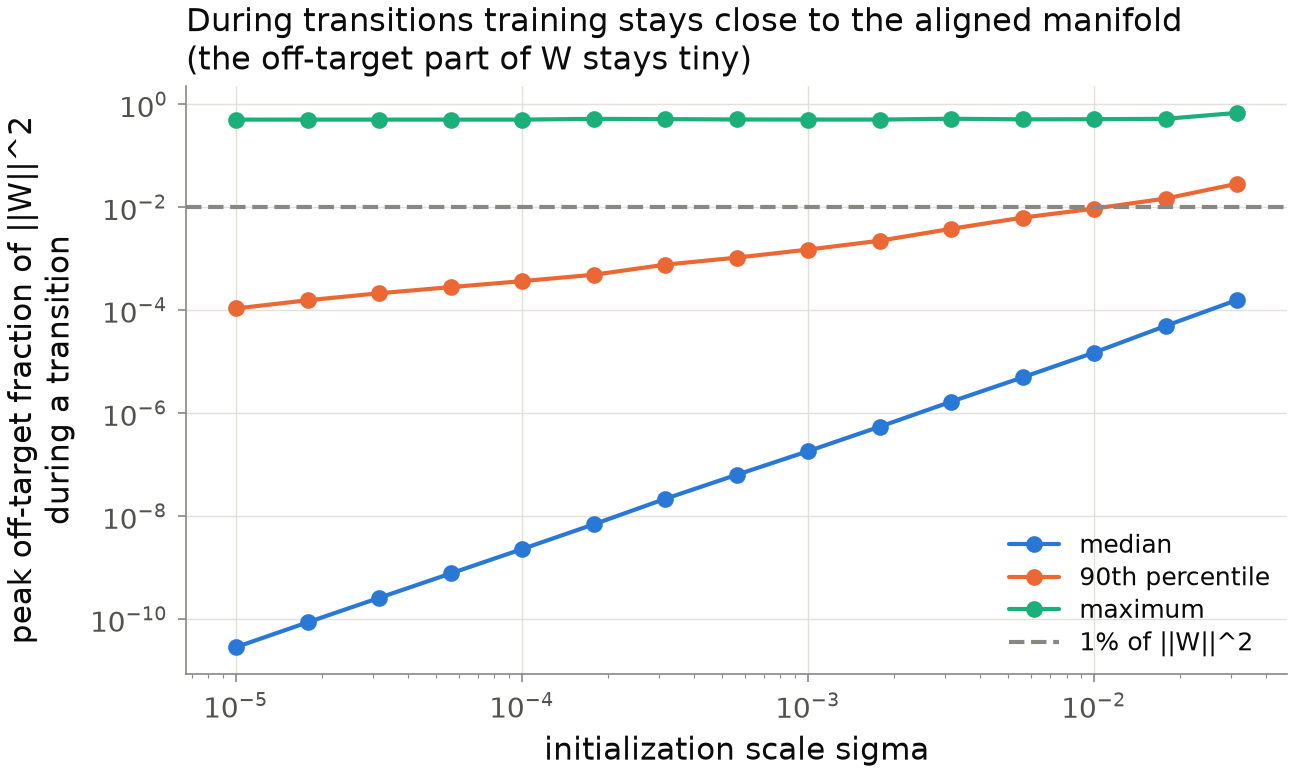
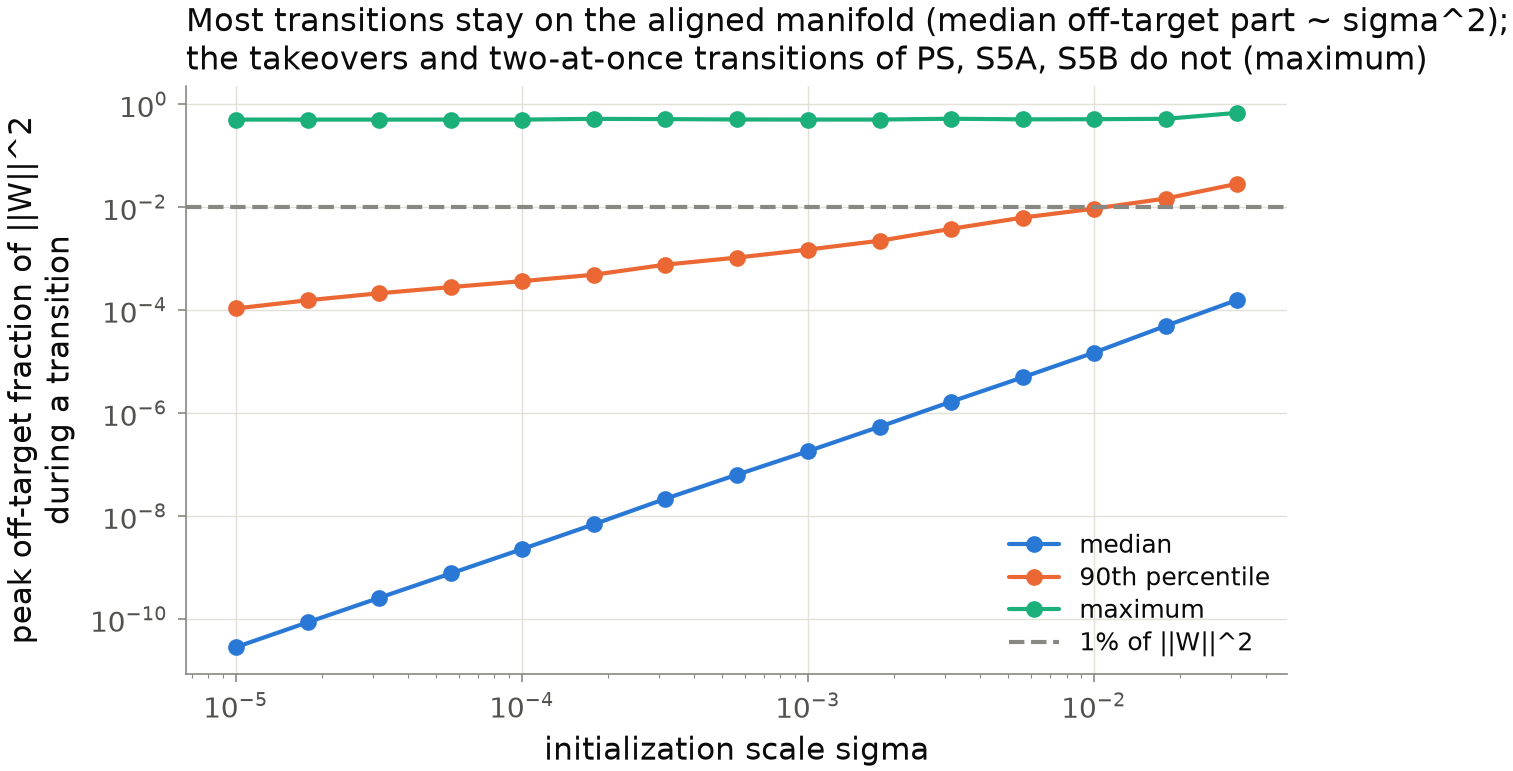
route-smallinit: final report (Status: done), deviation 7 (unfinished PS runs), numbers checked against headline.md

diff --git a/experiments/route_smallinit/figures.py b/experiments/route_smallinit/figures.py
@@ -197,7 +197,7 @@ def fig_offtarget(ev, out):
     ax.set_yscale("log")
     ax.set_xlabel("initialization scale sigma")
     ax.set_ylabel("peak off-target fraction of ||W||^2\nduring a transition")
-    ax.set_title("During transitions training stays close to the aligned manifold\n(the off-target part of W stays tiny)")
+    ax.set_title("Most transitions stay on the aligned manifold (median off-target part ~ sigma^2);\nthe takeovers and two-at-once transitions of PS, S5A, S5B do not (maximum)")
     ax.legend(fontsize=9)
     savefig(fig, out / "fig_offtarget")
     plt.close(fig)

diff --git a/agent-runs/route-smallinit/REPORT.md b/agent-runs/route-smallinit/REPORT.md
@@ -1,6 +1,6 @@
 # route-smallinit: route theory vs gradient-flow training from small random init (star targets)
 
-Status: working - Branch: agent/route-smallinit - Updated: 2026-10-13 20:50 UTC
+Status: done - Branch: agent/route-smallinit - Updated: 2026-10-13 21:30 UTC
 
 **Bugs in `ttn/routes.py`: none found.** Two usage notes (not bugs): `RouteTarget.greedy_next` breaks
 depth ties by the weight alone, not by s_r A_r(J) as in App. C. My greedy rule uses s_r A_r(J) (A_r at the
@@ -60,9 +60,9 @@ at sigma <= 1e-3 (9 grid points) unless stated. Every number: `experiments/route
 | (b) next pattern = greedy? | **yes without ties; ties: no** | no tie: 6882/6882 transitions; where greedy and pairwise rules name different patterns (747, the splices of B8, H4, S5A): greedy 100%, pairwise 0%; weight order wrong wherever it differs (0/3668); ties: heavier wins 82% overall (1909 tied transitions) (D4 62-64%, S5A 92%, S7 90%, S5B 67%, DB4/TIE 100%), the winner is fixed by the seed (same at every sigma in 99.5%) | `events.csv`, `fig_rules`, `fig_rules_vs_sigma` |
 | (c) duration ~ sigma^-(c-2)? | **yes on clean transitions** | per-seed exponents (sigma 1e-5..1e-3), clean transitions: c=3: 1.000 [1.000, 1.000] (399 fits), c=4: 2.000 [2.000, 2.000] (227); 98% of 648 fits with c >= 3 within 0.3 of c-2; all 125 splice fits at c-2, none at pairwise-2; c=2: log law, slope = 1/(s_r A_r(J)) within 1% in 6 of 7 cells; first escape: K-2 in 338/338 fits. Registered per-cell decisions: 42 SUPPORTED, 3 NOT SUPPORTED, 1 INCONCLUSIVE on clean events (37/7/3/3 incl. REFUTED on all events, the difference being forgetting runs) | `exponents.csv`, `cells.csv`, `fig_durations`, `fig_exponents` |
 | (c) failures | lighter-first plateaus; B4 slope; PS | S5A/S5B plateau with two light patterns learned: exponent 0.11 (log law) instead of 1, ending in a takeover; PS after 000000: exponent 2.000 (Theorem 3.2's order 4) instead of route depth 5's 3; PS 000000 after the pair: 3.0 or 3.9 depending on the seed; B4 c=2 slope 0.70 x prediction (also on M*) | `fig_shortcut_PS`, `fig_example_forgetting` |
-| (d) effective depth = c? | **yes** | medians 2.02 / 3.02 / 4.09 / 5.16 for c = 2/3/4/5 (90-100% within 0.3); first escape K within 0.03 | `fig_effective_depth` |
+| (d) effective depth = c? | **yes** | medians 2.02 / 3.02 / 4.09 / 5.16 for c = 2/3/4/5 (89-100% within 0.3); first escape K within 0.03 | `fig_effective_depth` |
 | (e) close to M*? | **yes, except during takeovers and mixed first escapes** | peak off-target fraction of ||W||^2 over a transition: median 8e-9, quartiles 2e-10, 4e-7, scales ~sigma^2; up to 0.5 in PS/S5A/S5B takeovers | `fig_offtarget` |
-| (f) Assumption C.1 | items 1-3 mostly hold; 4 fails in takeovers | (1) dormant entries ~ sigma at plateau entry in 36/39 cells (per-seed slope 1.00), not in B4 (0.70) and PS (0.88); spread across the route's nodes 2.3x; (2) active factors = A_r(J): ratio 1.000; (3-4) another pattern above 10% when the learned one passes 90%: 1.7% of events (PS 21%) | `c1.csv`, `plateaus.csv` |
+| (f) Assumption C.1 | items 1-3 mostly hold; 4 fails in takeovers | (1) dormant entries ~ sigma at plateau entry in 36/39 cells (per-seed slope 1.00), not in B4 (0.70) and PS (0.88); spread across the route's nodes 2.3x; (2) active factors = A_r(J): ratio 1.000; (3-4) another pattern above 10% when the learned one passes 90%: 1.8% of events (PS 21%) | `c1.csv`, `plateaus.csv` |
 | one-step-ahead (eq. 6.15) | **fails from P_r, works from the dormant-entry size** | from P_r(entry): observed/predicted 2.7 [0.9, 583], within [0.5, 2] 44%, winner right 82%; from the geometric mean of the dormant entries: 1.04 [0.93, 1.39], within [0.5, 2] 88%, winner right 98% (c <= 4; c = 5: 350) | `fig_onestep` |
 
 Failures of a prediction, each with its evidence:
@@ -102,8 +102,8 @@ Failures of a prediction, each with its evidence:
 Counts (6000 training runs): done 5710, **trapped 270** (D4 13 seeds and B4 5 seeds, x 15 sigma),
 **unfinished 20** (PS, sigma <= 10^-3.5, 1-hour cap: all had learned the pair and sat on the depth-5
 plateau before 000000 after > 1 million solver steps; 9 of them with the 000000 amplitude at ~1e-33,
-i.e. a dying route at the float64 floor; a rerun with a 3-hour cap and the BDF integrator is in
-progress, see Log), failed 0, **floor-flagged 11** (a duplicate with another contraction order or
+i.e. a dying route at the float64 floor; a rerun with the BDF integrator failed from the start and
+was abandoned; they are excluded from the fits), failed 0, **floor-flagged 11** (a duplicate with another contraction order or
 the library's arithmetic differs by > 1e-3 in a duration, max 2%, never in order or outcome; PS 5, S7
 5, B4 1, all at sigma <= 10^-4.75; excluded from fits). Behaviour tags: clean 3691 (62%), mixed first
 escape 1412, two at once later 813 (PS pair 497), forgetting 816, non-canonical plateau 556 (mostly at
@@ -118,16 +118,22 @@ plateau), `fig_rules`, `fig_rules_vs_sigma`, `fig_durations`, `fig_exponents`, `
 ## What was done
 
 1. Read the brief (1-3, 4.1), the paper (abstract, Secs. 1-3, 6-8, 10, App. C), `notes/saddle_dyn.md`
-   sec. 8, the drivers. Checked files and `uv run pytest tests/test_routes.py` (13 passed).
+   sec. 8, the drivers. Checked files and `uv run pytest tests/test_routes.py` (13 passed; still passing
+   at the end, `ttn/` untouched).
 2. Chose 10 targets with `ttn.routes` (`targets.py`, `results/predictions.csv`); the brief's ht4/binary8
    examples and decoupled mps5 have later route depths > 4 and were replaced by searched targets.
 3. Wrote the model (dense entrywise residual, exact Hessian), a step-driven LSODA driver with exact time
    bookkeeping, run reduction and sweep; pilots; pre-registration `notes/route_smallinit.md` Part I
-   (commit d44bc78, before the sweep).
-4. Sweep (two false starts, see Decisions), analysis (`analyze.py`), crossing histories and passes,
-   headline numbers, draft figures; first results pushed at 60f90a8.
-5. Investigated the failures (histories, passes, dormant-entry scaling, trapped routes); note Part II
-   and Part III (deviations).
+   (commit d44bc78, pushed before the sweep).
+4. Sweep: 6000 training runs, 150 reference runs on M*, 1300 floor-check duplicates (after two false
+   starts, Decisions), `uv run python experiments/route_smallinit/sweep.py configs/sweep.yaml`; first
+   results pushed at 60f90a8.
+5. Analysis (`analyze.py`: CSVs, crossing histories, passes, per-seed fits, per-cell decisions;
+   `headline.py`: every quoted number in `results/headline.md`; `figures.py`: 11 draft figures);
+   final analysis 7e7692f.
+6. Investigated the failures (histories, passes, dormant-entry scaling, trapped routes) and ran the
+   post-hoc no-cap diagnostic of the traps (`diag_trapped.py`, 35c2919). Note Part II (results with
+   status tags) and Part III (7 deviations).
 
 ## Decisions
 
@@ -150,12 +156,13 @@ plateau), `fig_rules`, `fig_rules_vs_sigma`, `fig_durations`, `fig_exponents`, `
 
 ## Files left on the machine
 
-- `/root/outputs/route-smallinit/runs/{dense,reorder,lib,ref}/<target>/*.json|npz` (~2.5 GB): raw
-  per-run records and trajectories; needed to rerun `analyze.py` (the CSVs in git are complete without
-  them).
-- `/root/outputs/route-smallinit/runs_try1_trapbug/`, `runs_try2_contaminated/`: set-aside outputs of the
-  two false starts (not used).
-- `/root/outputs/route-smallinit/logs/`: sweep logs.
+- `/root/outputs/route-smallinit/runs/{dense,reorder,lib,ref}/<target>/*.json|npz` (3.1 GB): raw
+  per-run records (events, plateau diagnostics) and trajectories (t, L, P, off-target mass, gradient
+  norm per solver step); needed to rerun `analyze.py`. The CSVs in git are complete without them.
+- `/root/outputs/route-smallinit/runs_unfinished_1h/` (278 MB): copies of the 20 unfinished PS records.
+- `/root/outputs/route-smallinit/runs_try1_trapbug/` (32 MB), `runs_try2_contaminated/` (187 MB):
+  set-aside outputs of the two false starts (not used; can be deleted).
+- `/root/outputs/route-smallinit/logs/` (1.4 MB): sweep logs.
 
 ## Caveats and next steps
 
@@ -179,3 +186,9 @@ plateau), `fig_rules`, `fig_rules_vs_sigma`, `fig_durations`, `fig_exponents`, `
 - 20:25 First results pushed (5970/6000 training runs; 30 slow PS runs at small sigma still running): CSVs, cells.csv decisions, results/headline.md, draft figures.
 - 20:35 Crossing histories reveal forgetting/takeovers (S5A, S5B, S7, PS) and the PS spectral shortcut (sigma^-2); passes table and clean-event basis added; note Part II drafted.
 - 20:50 Report drafted; waiting for the last PS runs (1-h cap) and their floor checks.
+- 21:13 20 PS runs ended at the 1-h cap (unfinished: >1M solver steps on the depth-5 plateau); rerun with BDF abandoned (VODE error-test failures); reported as unfinished (deviation 7).
+- 21:19 Sweep finished; final analysis; floor-check rule fixed so that a duplicate stopped by its own time cap gives no verdict (11 flagged of 1214 complete comparisons). Pushed 7e7692f.
+- 21:22 Post-hoc diagnostic: D4 and B4 without the bond cap never trap (0/160 vs 18/80 per sigma with the cap). Pushed 35c2919.
+- 21:30 Final numbers checked against results/headline.md; report complete.
+
+Status: done

diff --git a/experiments/route_smallinit/README.md b/experiments/route_smallinit/README.md
@@ -53,7 +53,7 @@ A single run: `run.run_full(cfg, sigma, seed)` then `run.reduce_run(...)`.
 | `figures.py` | draft figures `results/fig_*.png/pdf` |
 | `headline.py` | `results/headline.md`: every number quoted in the note and the report |
 | `diag_trapped.py` | post-hoc: D4 and B4 without the bond cap (spare channels on the end edges) -> `results/diag_trapped.csv` (columns as runs.csv plus `bond_cap`, `bonds`) |
-| `configs/sweep_ps_long.yaml` | rerun of the 20 PS runs unfinished after 1 h (3 h cap, BDF integrator) |
+| `configs/sweep_ps_long.yaml` | attempted rerun of the 20 PS runs unfinished after 1 h (3 h cap, BDF integrator; abandoned, see note Part III item 7) |
 
 ## CSV columns (all in `results/`)
 
@@ -157,13 +157,13 @@ Numbers at sigma <= 1e-3 unless stated; `results/headline.md` lists them all (ge
 | question | answer | evidence |
 |---|---|---|
 | (a) plateaus at the canonical partial targets? | yes: 98.7% within 1% of ||W*|| (median distance 8e-9) | `events.csv` `rel_dist_mg`, `canonical` |
-| (b) next pattern = greedy rule? | always when there is no tie in route depth (6867/6867); the pairwise rule is wrong in all 747 transitions where it differs (splices); ties go to the heavier pattern only 62-100% of the time, decided by the seed | `events.csv` `agree_*`, `fig_rules`, `fig_rules_vs_sigma` |
+| (b) next pattern = greedy rule? | always when there is no tie in route depth (6882/6882); the pairwise rule is wrong in all 747 transitions where it differs (splices); ties go to the heavier pattern only 62-100% of the time, decided by the seed | `events.csv` `agree_*`, `fig_rules`, `fig_rules_vs_sigma` |
 | (c) duration ~ sigma^-(c-2)? | yes on clean transitions: 98% of 648 per-seed fits (c >= 3) within 0.3, log law with the predicted slope for c = 2 in 6 of 7 cells; exceptions: lighter-first plateaus are strict saddles (log law, Theorem 3.2 / Remark 8.5), PS after 000000 follows Theorem 3.2's order 4 (sigma^-2, not the route depth's sigma^-3), B4 log slope 0.70 x prediction | `exponents.csv`, `cells.csv`, `fig_durations`, `fig_exponents`, `fig_shortcut_PS` |
 | (d) effective depth = c? | yes: medians 2.02, 3.02, 4.09, 5.16; first escape K | `events.csv` `eff_depth`, `fig_effective_depth` |
-| (e) close to the aligned manifold? | yes between and during clean transitions (peak off-target mass median 8e-9, ~sigma^2); not during takeovers and mixed first escapes (up to 0.5) | `peak_offtarget`, `fig_offtarget` |
+| (e) close to the aligned manifold? | yes during clean transitions (peak off-target mass median 9e-9, ~sigma^2); not during takeovers and mixed first escapes (up to 0.5) | `peak_offtarget`, `fig_offtarget` |
 | (f) Assumption C.1 | (1) dormant entries ~ sigma at entry in 36/39 cells (B4: sigma^0.70); (2) active factors = A_r(J) (ratio 1.000); (3-4) separated in 98% of events (PS 79%), but takeovers erase learned patterns | `c1.csv`, `plateaus.csv` |
 | one-step-ahead (eq. 6.15) | from P_r at entry: fails (ratio 2.7, IQR 0.9-579); from the dormant-entry size: works (1.04, IQR 0.93-1.39) for c <= 4 | `onestep_ratio`, `onestep_ratio_B`, `fig_onestep` |
-| runs doing something else | forgetting 807 runs (13%; S5A, S5B, S7, PS), two at once later 793 (PS pair), trapped 270 (D4 13 seeds, B4 5 seeds, at every sigma), mixed first escape 1391 | `runs.csv` `behaviour`, `history`, `fig_census`, `fig_example_forgetting` |
+| runs doing something else | forgetting 816 runs (14%; S5A, S5B, S7, PS), two at once later 813 (mostly the PS pair), trapped 270 (D4 13 seeds, B4 5 seeds, at every sigma; none without the bond cap, `diag_trapped.csv`), unfinished 20 (PS, 1-h cap), mixed first escape 1412, floor-flagged 11 | `runs.csv` `behaviour`, `history`, `fig_census`, `fig_example_forgetting` |
 
 Figures (`results/`): `fig_example_run` (one B8 run, plateau by plateau), `fig_rules`, `fig_rules_vs_sigma`,
 `fig_durations`, `fig_exponents`, `fig_shortcut_PS`, `fig_example_forgetting`, `fig_effective_depth`,

diff --git a/notes/route_smallinit.md b/notes/route_smallinit.md
@@ -347,7 +347,7 @@ trapped runs excluded. Three bases (`exponents.csv`): `event` (registered: every
 ## 5. (d) Effective depth
 
 `ttn.routes.effective_depth` on the learned pattern's amplitude, from the plateau entry to the event,
-sigma <= 1e-3: c = 2: 2.02 [2.02, 2.02], 90% within 0.3 (10% of events have too few points in the
+sigma <= 1e-3: c = 2: 2.02 [2.02, 2.02], 89% within 0.3 (10% of events have too few points in the
 window); c = 3: 3.02 [3.02, 3.04], 96%; c = 4: 4.09 [4.00, 4.15], 99.5%; c = 5: 5.16 [5.16, 5.16],
 100%; first escape (c = K = 3 ... 7): K to within 0.03 (median deviation -0.001). **SUPPORTED
 [empirical]** in every cell (>= 80% within 0.3). The few mismatches are relearned patterns after
@@ -358,7 +358,7 @@ finite window (the reference flow on M* gives the same values).
 ## 6. (e) Does training stay close to the aligned manifold?
 
 **Yes, except during the escapes that the theory does not cover [empirical].** Peak off-target fraction
-of ||W||^2 over a transition (k >= 1, sigma <= 1e-3): median 8e-9 (quartiles 2e-10, 4e-7); 93.8%
+of ||W||^2 over a transition (k >= 1, sigma <= 1e-3): median 9e-9 (quartiles 2e-10, 4e-7); 93.5%
 below 1e-2. It scales as ~sigma^2 (median 3e-11 at 1e-5, 1.6e-4 at 10^-1.5). The large values (up to
 0.5) come from PS (the pair escape), S5A/S5B/S7 takeovers (0.14-0.38) and the mixed first escapes.
 Alignment quality of `align` at the plateau minimum-gradient points: 1.000 (all quartiles). The
@@ -378,9 +378,9 @@ The lighter-first takeovers suggest that this happens (section 4) [conjecture].
    order but not balanced).
 2. **Active factors independent of sigma: holds [empirical]:** gamma_obs / A_r(J) = 1.000 (within 5%
    in 95% of rows).
-3.-4. **Separated events: holds except PS [empirical]:** at sigma <= 1e-3, 1.7% of the events have
+3.-4. **Separated events: holds except PS [empirical]:** at sigma <= 1e-3, 1.8% of the events have
    another unlearned pattern above 10% of its weight when the learned one passes 90% (PS 21%, TIE
-   1.7%, all others <= 0.3%); the fraction grows slowly with sigma (1.2% at 1e-5, 4.1% at 10^-1.5).
+   1.7%, all others <= 0.3%); the fraction grows slowly with sigma (1.6% at 1e-5, 4.1% at 10^-1.5).
    Item 4 fails in the takeover transitions (a learned pattern is lost when the next arrives), which the
    separation test does not see because the erased pattern was already learned.
 Signs: P_r <= 0 at plateau entry for 5.4% of the learned patterns (5.8% of all missing patterns). Such
@@ -471,8 +471,9 @@ use (it flags plateaus whose durations agree to 1e-9 between arithmetics). LSODA
 6. **Exponents and cells also for event 0** (the escape from the origin, depth K, Saxe exponent K - 2):
    reported alongside, not used for the route-theory decisions.
 7. **PS runs unfinished after 1 hour (21:13).** 20 PS runs (sigma <= 10^-3.5; all had learned the
-   pair 110001 + 110010 and were still on the depth-5 plateau before 000000) hit the 3600 s wall. They
-   were rerun with a 10800 s wall (`configs/sweep_ps_long.yaml`, same code and seeds); the 1-hour
-   records are kept in `/root/outputs/route-smallinit/runs_unfinished_1h/`. Runs that still do not
-   finish are reported as unfinished with their 1-hour record. Their reorder floor-check duplicates
-   (sigma <= 10^-4.5) are not rerun.
+   pair 110001 + 110010 and were still on the depth-5 plateau before 000000) hit the 3600 s wall after
+   more than a million solver steps. A rerun with a 10800 s wall and VODE-BDF from the start
+   (`configs/sweep_ps_long.yaml`) was abandoned after 8 minutes: VODE reported repeated error-test
+   failures from the origin on. The 20 runs are reported as unfinished with their 1-hour records
+   (copies in `/root/outputs/route-smallinit/runs_unfinished_1h/`); they are excluded from the fits,
+   which biases the PS {pair} -> 000000 cell at sigma <= 10^-4.25 toward the faster seeds.
